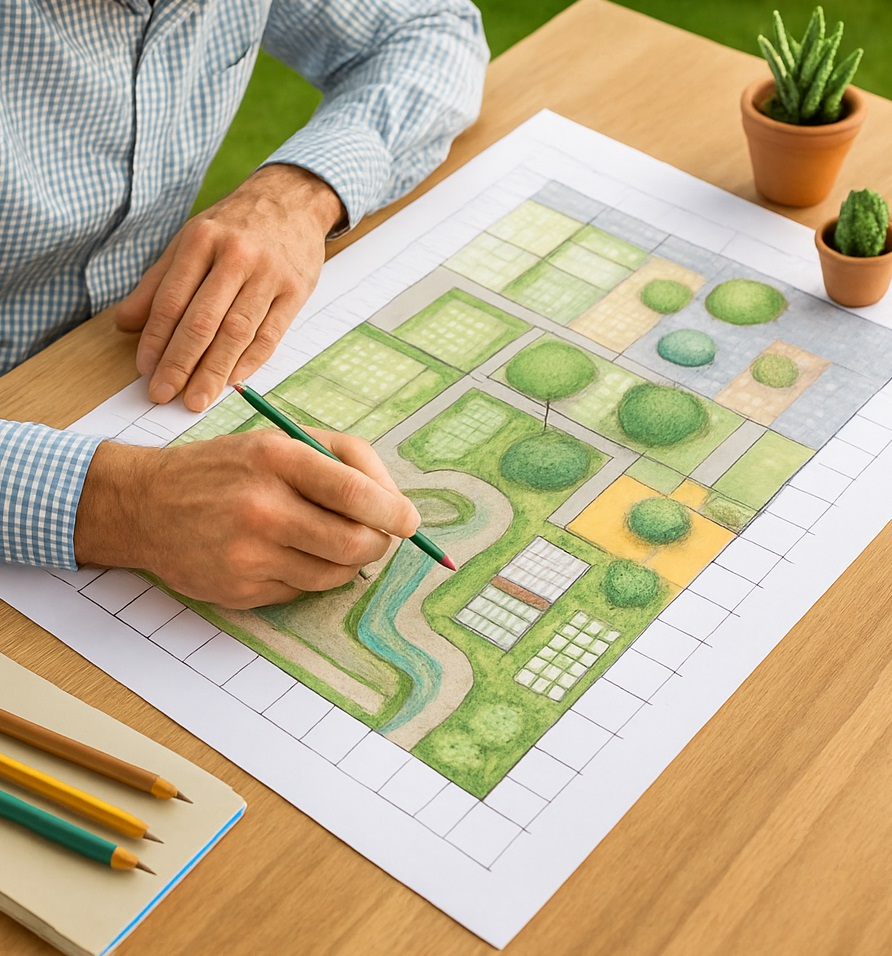
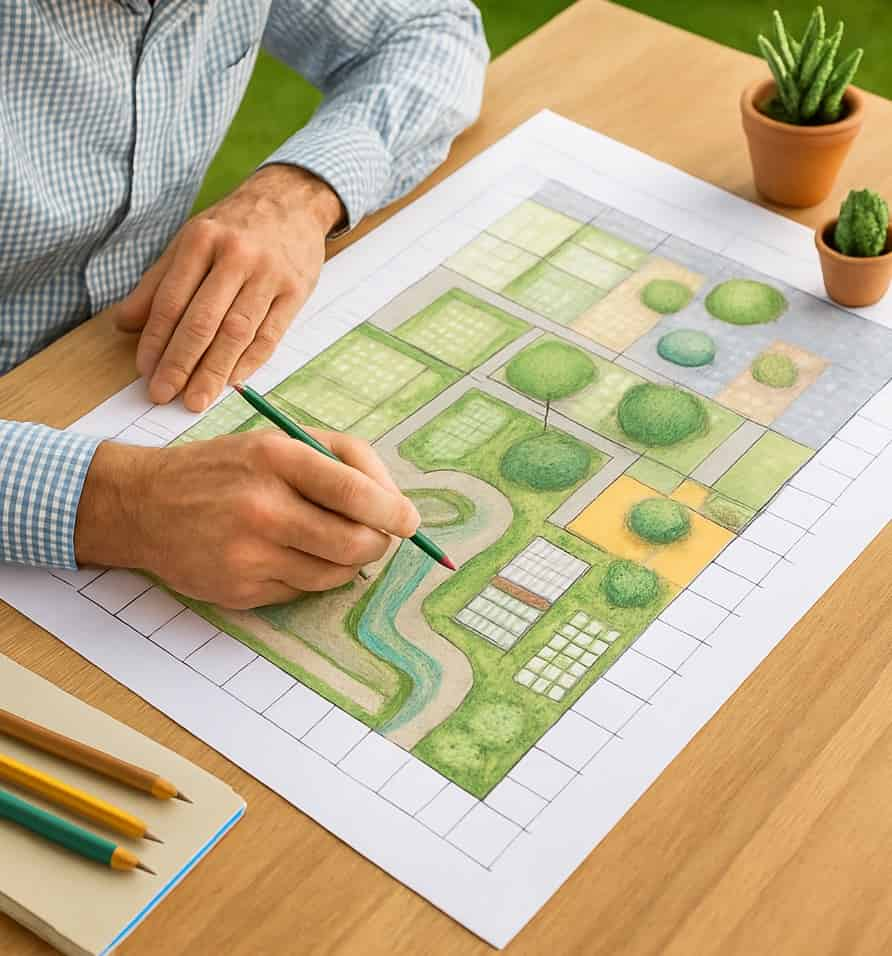
The graphics have been replaced with lighter WebP versions, and the background path for the footer graphics has been corrected.

diff --git a/src/pages/components/layout/offer/Offer.tsx b/src/pages/components/layout/offer/Offer.tsx
@@ -1,7 +1,7 @@
 import projectImg from "../../../components/photos/garden-design-small.jpg";
 import createImg from "../../../components/photos/seedling.jpg";
-import cuttingImg from "../../../components/photos/garden-cutting.png";
-import cleaningImg from "../../../components/photos/window-cleaning.png";
+import cuttingImg from "../../../components/photos/garden-cutting.jpg";
+import cleaningImg from "../../../components/photos/window-cleaning.jpg";
 import Product, { type ProductProps } from "./Product";
 import OpenSection from "../../ui/OpenSection";
 import styles from "./Offer.module.scss";

diff --git a/src/pages/components/layout/reviews/ReviewDesktop.tsx b/src/pages/components/layout/reviews/ReviewDesktop.tsx
@@ -1,6 +1,6 @@
-import img1 from "../../photos/reviews/mowing.png";
-import img2 from "../../photos/reviews/trimming.png";
-import img3 from "../../photos/reviews/shears.png";
+import img1 from "../../photos/reviews/mowing.jpg";
+import img2 from "../../photos/reviews/trimming.jpg";
+import img3 from "../../photos/reviews/shears.jpg";
 import { ReviewCardMini } from "./ReviewCardMini";
 import { useInView } from "../../../../hooks/useInView";
 import styles from "./Reviews.module.scss";

diff --git a/src/pages/components/contact/ContactHeader.module.scss b/src/pages/components/contact/ContactHeader.module.scss
@@ -9,7 +9,7 @@
 	align-items: center;
 	height: 280px;
 	min-height: 40vh;
-	background-image: url("../photos/grass.png");
+	background-image: url("../photos/grass.jpg");
 	background-size: 140%;
 	background-position: 70% 10%;
 }
@@ -23,7 +23,7 @@
 	.contactHeader {
 		height: 370px;
 		min-height: 40vh;
-		background-image: url("../photos/grass_big.png");
+		background-image: url("../photos/grass_big.jpg");
 		background-size: cover;
 		background-position: 70% 20%;
 	}

diff --git a/src/pages/components/layout/header/Header.module.scss b/src/pages/components/layout/header/Header.module.scss
@@ -11,7 +11,7 @@
 	min-height: 65vh;
 	padding: 20px;
 	text-align: center;
-	background-image: url("../../../components/photos/header-photo.png");
+	background-image: url("../../../components/photos/header-photo.jpg");
 	background-size: 220%;
 	background-position: 55% 0%;
 	overflow: hidden;

diff --git a/src/pages/components/layout/footer/Footer.module.scss b/src/pages/components/layout/footer/Footer.module.scss
@@ -2,7 +2,7 @@
 
 .footer {
 	width: 100%;
-	background-image: url("../../../../assets/flowers.jpg");
+	background-image: url("../../photos/flowers.jpg");
 	background-size: 350%;
 	background-position: 50%;
 	background-repeat: no-repeat;
